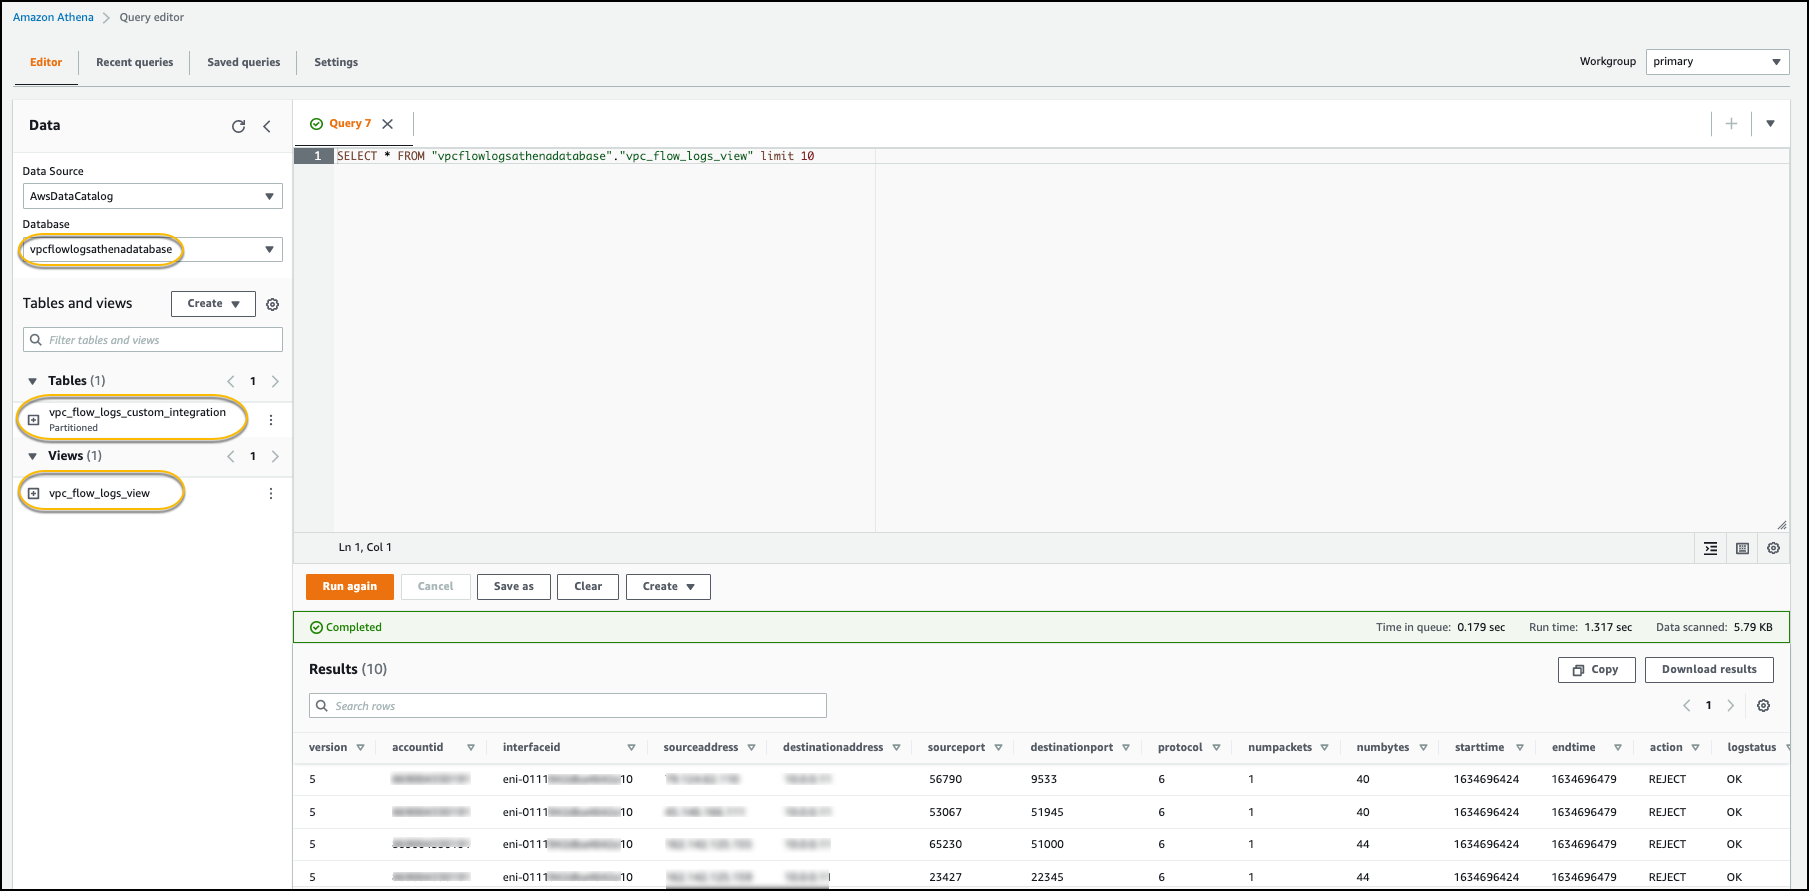
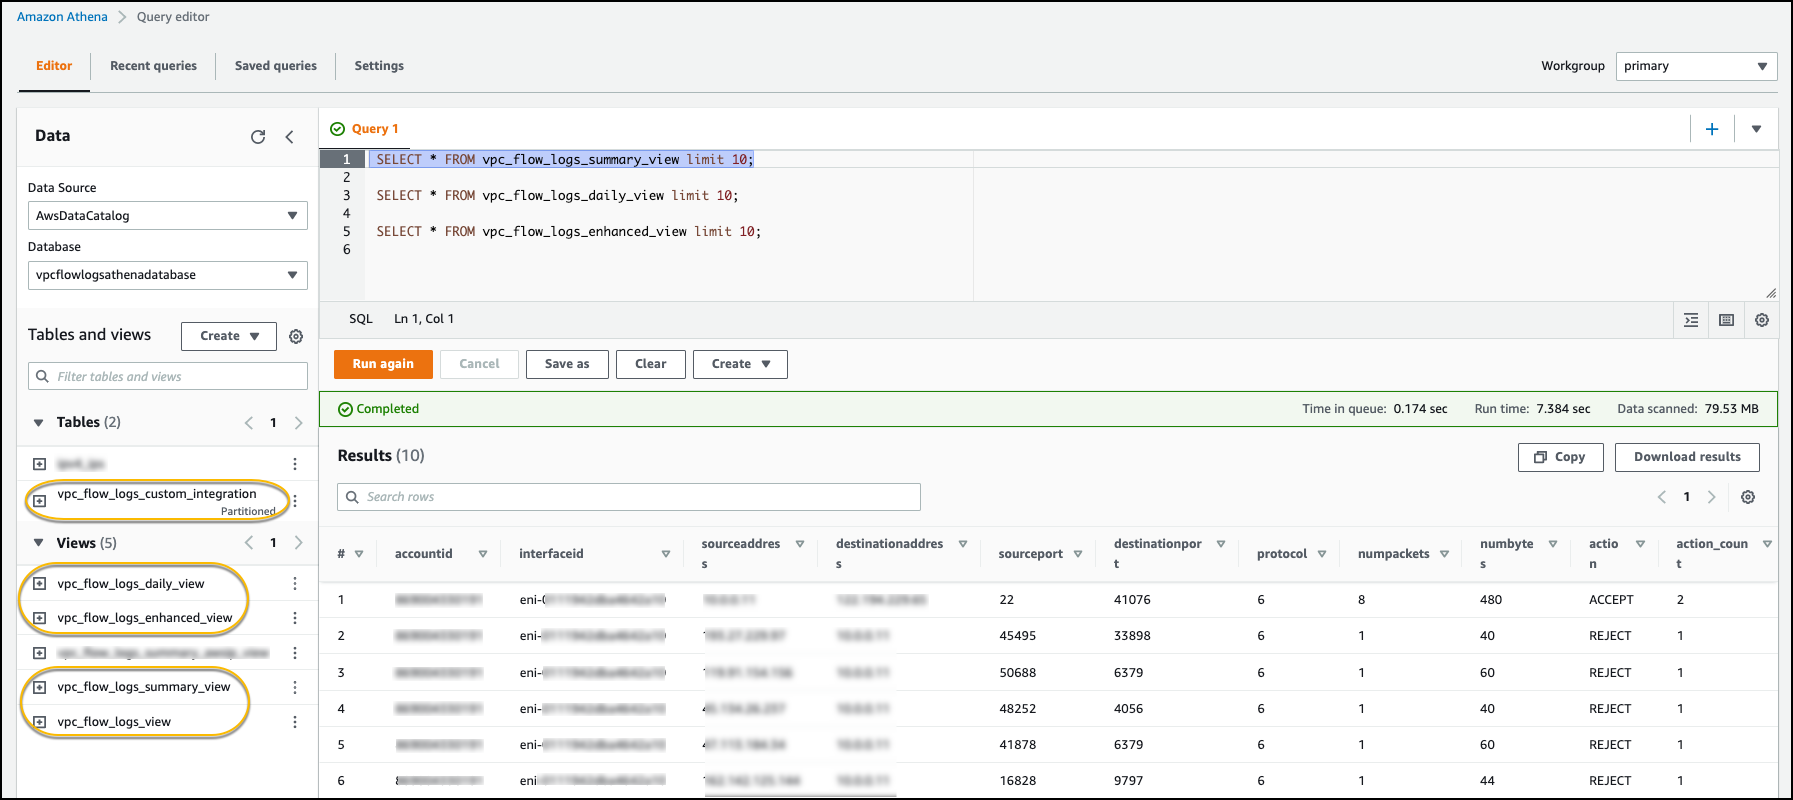
Added instructions for Parquet format

diff --git a/content/Security/300_Labs/300_VPC_Flow_Logs_Analysis_Dashboard/1_enable_vpc_flow_logs.md b/content/Security/300_Labs/300_VPC_Flow_Logs_Analysis_Dashboard/1_enable_vpc_flow_logs.md
@@ -33,6 +33,37 @@ Wait until the VPC CloudFormation stack status is CREATE_COMPLETE, then continue
 
 QuickSight dashboard provided in this lab requires all the fields mentioned in the [Introduction section](/security/300_labs/300_vpc_flow_logs_analysis_dashboard/#introduction) are required. If you already have enabled VPC Flow logs with those fields (with CSV format, Hive partition enabled and delivered to S3) then you can skip this section and proceed to ["**Create Athena resources, Lambda function and CloudWatch rule**"](../2_create_athena_lambda_cloudwatch_rule/) section to continue. If you do not have VPC flow logs enabled or existing VPC Flow logs does not have all the required fields then this section will help you in enabling vpc flow logs for existing VPC(s) in your account. Repeat all the steps from this section for each VPC in case you want to enable VPC Flow logs in respective account to visualize them in QuickSight dashboard under central account.
 
+#### Parquet file format
+
+{{%expand "Click here for the instructions for enabling VPC Flow Logs in Parquet format" %}}
+
+Use aws cli or AWS CloudShell to run below command. This command will create Flow Log in parquet file format with hive-compatible s3 prefixes
+
+1. Navigate to CloudShell from AWS Console from the account where your VPC is located.
+    Note: Please make sure you have correct region selected.
+2. Replace `<VPC ID>` with VPC id from your account. You can find the VPC ID in [console](https://console.aws.amazon.com/vpc/home?region=us-east-1#vpcs:) 
+3. Replace `<S3 ARN>` with S3 buckets arn from central account. Please specify subfolder in case you are storing logs in under it. 
+    
+    e.g. `arn:aws:s3:::my-flow-log-bucket/my-custom-flow-logs/`
+
+        aws ec2 create-flow-logs \
+        --resource-type VPC \
+        --resource-ids <VPC ID> \
+        --traffic-type ALL \
+        --log-destination-type s3 \
+        --log-destination <S3 ARN> \
+        --destination-options FileFormat=parquet,HiveCompatiblePartitions=True,PerHourPartition=false \
+        --log-format '${account-id} ${action} ${az-id} ${bytes} ${dstaddr} ${dstport} ${end} ${flow-direction} ${instance-id} ${interface-id} ${log-status} ${packets} ${pkt-dst-aws-service} ${pkt-dstaddr} ${pkt-src-aws-service} ${pkt-srcaddr} ${protocol} ${region} ${srcaddr} ${srcport} ${start} ${sublocation-id} ${sublocation-type} ${subnet-id} ${tcp-flags} ${traffic-path} ${type} ${version} ${vpc-id}'
+4. Once you finish replacing ID, ARN paste the command in CloudShell and run it. You will see below result with FlowLogIds, if it is successful.
+![Images/quicksight_dashboard_dt-8.png](/Security/300_VPC_Flow_Logs_Analysis_Dashboard/images/qs-vpcfl-33.png)
+
+{{% /expand%}}
+&nbsp;
+&nbsp;
+#### CSV file format
+
+{{%expand "Click here for the instructions for enabling VPC Flow Logs in CSV format" %}}
+
 1. Login to your central AWS account.
 
 2. Run CloudFormation stack to enable VPC Flow Logs.
@@ -59,14 +90,14 @@ QuickSight dashboard provided in this lab requires all the fields mentioned in t
 
     - **VpcFlowLogsBucketName (Optional)**: S3 bucket name where VPC flow logs will be stored. 
 
-        - If you specify the bucket name then it is assumed that the bucket already exists. If you want to centralize the storage of the logs create the bucket before and specify the bucket name here. 
+        - If you specify the bucket name then it is assumed that the bucket already exists. If you want to centralize the storage of the logs, then create the bucket before and specify the bucket name here. **If you are enabling VPC Flow Logs in additional account then please make sure to modify S3 bucket's policy from the central account to grant access to additional account and provide the name of the central bucket to this parameter.**
 
         - If you leave it blank CloudFormation template will create a bucket for you.
+        
+        Note:
+        **VpcFlowLogsBucketName** - This bucket will be used to gather vpc flow logs for all of your vpcs from one or more accounts. So please make sure this is the central account where you want your VPC flow logs to be collected and QuickSight dashboard to be hosted.
 
-        **If you are enabling VPC Flow Logs in additional account then please make sure to modify S3 bucket's policy from the central account to grant access to additional account and provide the name of the central bucket to this parameter.**
-{{% notice note %}}
-**VpcFlowLogsBucketName** - This bucket will be used to gather vpc flow logs for all of your vpcs from one or more accounts. So please make sure this is the central account where you want your VPC flow logs to be collected and QuickSight dashboard to be hosted.
-{{% /notice%}}
+
     - **VpcFlowLogsFilePrefix (Optional)**: VPC Flow [logfile prefix](https://docs.aws.amazon.com/vpc/latest/userguide/flow-logs-s3.html#flow-logs-s3-path) in S3 bucket. See bold text in below example
 
         **e.g.,** bucket_name/<span style="color: #f92672">**vpc-flow-logs**</span>/AWSLogs/aws_account_id/vpcflowlogs/region/year/month/day/
@@ -91,8 +122,11 @@ QuickSight dashboard provided in this lab requires all the fields mentioned in t
 7. As shown below you will see progress of the stack creation under **Events** tab. Please wait for the stack to complete the execution. Once complete it will show the status **CREATE_COMPLETE** in green then proceed to the next step.
 ![Images/quicksight_dashboard_dt-6.png](/Security/300_VPC_Flow_Logs_Analysis_Dashboard/images/qs-vpcfl-06.png)
 
-8. To verify, navigate to VPC service, click on vpc link and then click on **Flow Logs** tab at the bottom part of the screen. You will see a line with flow logs you just created now.
+{{% /expand%}}
+
+- To verify, navigate to VPC service, click on vpc link and then click on **Flow Logs** tab at the bottom part of the screen. You will see a line with flow logs you just created now.
 ![Images/quicksight_dashboard_dt-7.png](/Security/300_VPC_Flow_Logs_Analysis_Dashboard/images/qs-vpcfl-07.png)
+
 
 ### Delete older VPC Flow Logs from S3 bucket (Optional)
 

diff --git a/content/Security/300_Labs/300_VPC_Flow_Logs_Analysis_Dashboard/2_create_athena_lambda_cloudwatch_rule.md b/content/Security/300_Labs/300_VPC_Flow_Logs_Analysis_Dashboard/2_create_athena_lambda_cloudwatch_rule.md
@@ -17,7 +17,12 @@ Now that you have enabled VPC Flow Logs, which will help you understand how your
 2. Run CloudFormation stack to create Athena Database, Table, Lambda function and Cloudwatch rule.
 
  - Download CloudFormation Template:
- [vpc_athena_db_table_view_lambda.yaml](/Security/300_VPC_Flow_Logs_Analysis_Dashboard/code/vpc_athena_db_table_view_lambda.yaml)
+    - **CSV file format**: [vpc_athena_db_table_view_lambda.yaml](/Security/300_VPC_Flow_Logs_Analysis_Dashboard/code/vpc_athena_db_table_view_lambda.yaml) 
+    
+      **OR**
+    
+    - **Parquet file format**: [vpc_athena_db_table_view_lambda_parquet.yaml](/Security/300_VPC_Flow_Logs_Analysis_Dashboard/code/vpc_athena_db_table_view_lambda_parquet.yaml)
+
 
     This cloudformation template creates
     - **Athena DataBase, an external table, VPC Flow Logs View:** To query and fetch data from S3 bucket for VPC Flow Logs.
@@ -39,8 +44,10 @@ Now that you have enabled VPC Flow Logs, which will help you understand how your
      (Please read the description of each parameter carefully)
    2. **AthenaQueryResultBucketArn:** The ARN of the Amazon S3 bucket to which Athena query results are stored. e.g. 'arn:aws:s3:::aws-athena-query-results-us-east-1-XXXXXXXXXXXXXX'
    3. **AthenaResultsOutputLocation:** URI path of the Amazon S3 bucket where Athena query results are stored.
-   4. **HiveCompatibleS3prefix:** [documentation](https://docs.aws.amazon.com/vpc/latest/userguide/flow-logs-s3.html) Adds prefixes of partition keys in s3 object key (Hive-compatible S3 prefix)\
-        (Note: Please select false, since only this option is supported for now)
+   4. **HiveCompatibleS3prefix:** [documentation](https://docs.aws.amazon.com/vpc/latest/userguide/flow-logs-s3.html) Adds prefixes of partition keys in s3 object key (Hive-compatible S3 prefix)
+        
+        Note: Please select true for Parquet
+
    5. **S3BucketRegion:** Region of the S3 bucket created in the central account. e.g. _us-east-1_
    6. **VpcFlowLogsAthenaDatabaseName:** Only provide existing database name if it has a table with all the required fields mentioned in the [Introduction section](/security/300_labs/300_vpc_flow_logs_analysis_dashboard/#introduction) otherwise leave it empty so that this template will create new DB.
    7. **VpcFlowLogsAthenaTableName:** Only provide existing table name if it has all the required fields mentioned in the [Introduction section](/security/300_labs/300_vpc_flow_logs_analysis_dashboard/#introduction) otherwise leave it empty so that this template will create new table.
@@ -48,7 +55,11 @@ Now that you have enabled VPC Flow Logs, which will help you understand how your
    9. **VpcFlowLogsFilePrefix:** The log file prefix in Amazon S3 bucket that comes right after s3 bucket name e.g. _vpc-flow-logs_
    10. **VpcFlowLogsS3BucketLocation:** Please provide complete path **without log file name**, as shown below
 
-   e.g. **_s3://my-vpc-flow-logs-bucket/vpc-flow-logs/AWSLogs/0123456789/vpcflowlogs/us-east-1/2021/11/01/_**
+   e.g.
+
+   For CSV - **_s3://my-vpc-flow-logs-bucket/vpc-flow-logs/AWSLogs/0123456789/vpcflowlogs/us-east-1/2021/11/01/_**
+   
+   For Parquet - **_s3://my-vpc-flow-logs-bucket/vpc-flow-logs-enh-parquet/AWSLogs/_**
 
 - Click **Next**
 
@@ -64,9 +75,17 @@ Now that you have enabled VPC Flow Logs, which will help you understand how your
 
         SELECT * FROM vpc_flow_logs_custom_integration limit 10;
         
-   Athena View: 
+   Athena View for CSV: 
 
         SELECT * FROM vpc_flow_logs_view limit 10;
+
+   Athena Views for Parquet:
+
+        SELECT * FROM vpc_flow_logs_summary_view limit 10;
+
+        SELECT * FROM vpc_flow_logs_daily_view limit 10;
+
+        SELECT * FROM vpc_flow_logs_enhanced_view limit 10;
 
 
 Example screen shot:

diff --git a/content/Security/300_Labs/300_VPC_Flow_Logs_Analysis_Dashboard/3_create_vpc_flow_logs_analysis.md b/content/Security/300_Labs/300_VPC_Flow_Logs_Analysis_Dashboard/3_create_vpc_flow_logs_analysis.md
@@ -18,7 +18,12 @@ We will now create the data sets in QuickSight from the Athena view and an analy
 
 2. Run CloudFormation stack to create QuickSight Athena dataset and a Dashboard.
 - Download CloudFormation Template:
-  [vpc_flowlogs_quicksight_template.yaml](/Security/300_VPC_Flow_Logs_Analysis_Dashboard/code/vpc_flowlogs_quicksight_template.yaml)
+    
+    **CSV** file format - [vpc_flowlogs_quicksight_template.yaml](/Security/300_VPC_Flow_Logs_Analysis_Dashboard/code/vpc_flowlogs_quicksight_template.yaml)
+
+    **OR**
+
+    **Parquet** file format - [vpc_flowlogs_quicksight_multi_view_template.yaml](/Security/300_VPC_Flow_Logs_Analysis_Dashboard/code/vpc_flowlogs_quicksight_multi_view_template.yaml)
 
 - From AWS Console navigate to CloudFormation. Then click on **Create stack**
 ![Images/quicksight_dashboard_dt-8.png](/Security/300_VPC_Flow_Logs_Analysis_Dashboard/images/qs-vpcfl-08.png)

diff --git a/content/Security/300_Labs/300_VPC_Flow_Logs_Analysis_Dashboard/_index.md b/content/Security/300_Labs/300_VPC_Flow_Logs_Analysis_Dashboard/_index.md
@@ -23,12 +23,13 @@ This dashboard contains breakdowns with the following visuals. Available views a
 
 Supported flow log record formats:
 - CSV
-- _Parquet format coming soon.._
+- Parquet
 
 Supported Glue Partitions:
  - Non Hive-compatible S3 prefix
+ - Hive-compatible S3 prefix
 
-Note: This lab currently does not support **Hive-compatible S3 prefix**
+Note: We recommend creating **Parquet** file format with **Hive-compatible S3 prefix** for better performance and reducing cost for querying data from S3
 
 ## Architecture
 ![images/qs-vpcl-architecture_v3.png](/Security/300_VPC_Flow_Logs_Analysis_Dashboard/images/qs-vpcl-architecture_v3.png)
